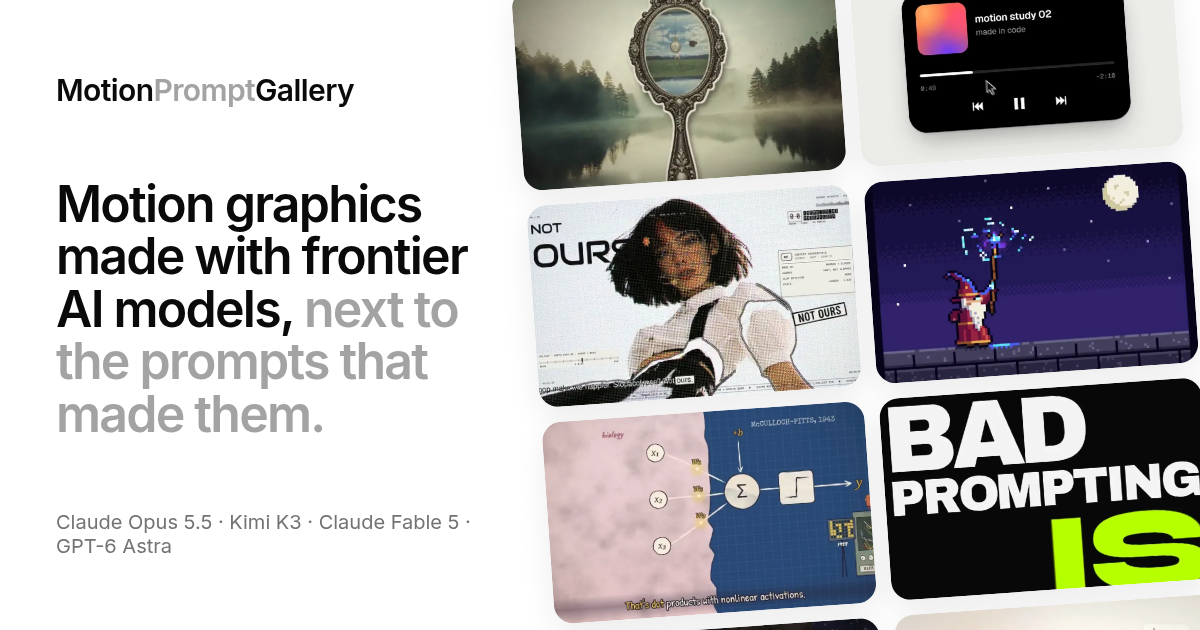
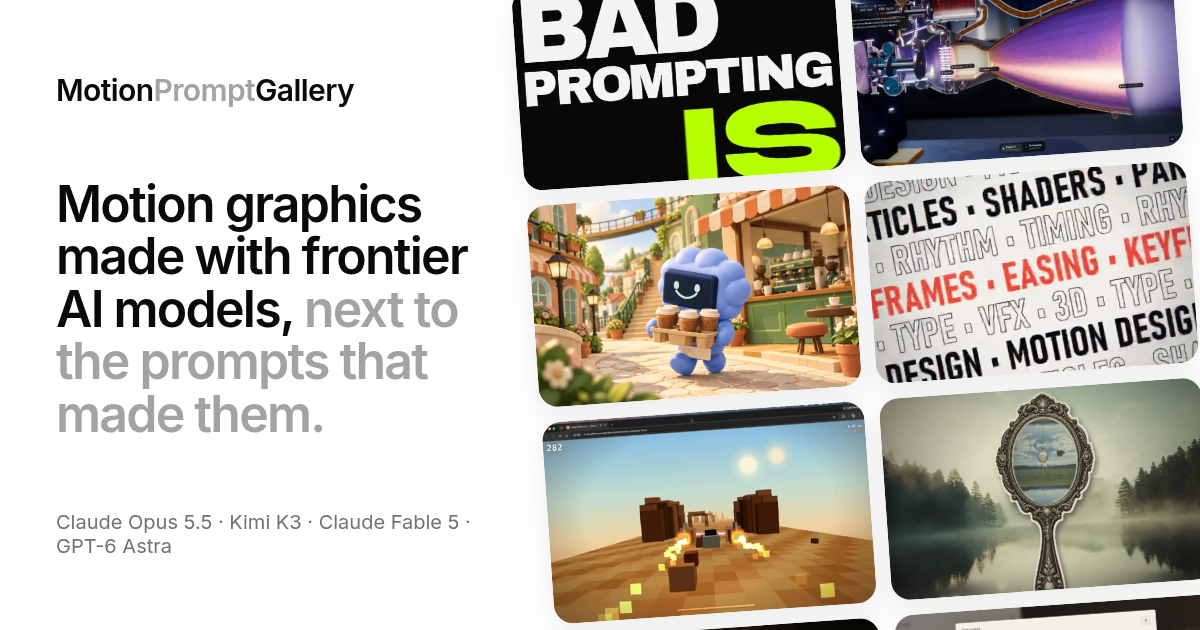
Lead the homepage with featured video pieces
- New default 'Featured' order: featured rank, then pieces with video, then
  stills, newest first within each ('Newest'/'Oldest' still available).
- Row-major masonry after mount so the first row shows the top-ranked cards
  (CSS columns filled top-to-bottom and pushed them below the fold).
- Validator checks featured ranks (positive, unique, video required).
- Regenerate public/og.png (1200x630) from the featured posters.
- README: site URL / NEXT_PUBLIC_SITE_URL launch note, featured field docs.

diff --git a/components/Gallery.tsx b/components/Gallery.tsx
@@ -2,17 +2,22 @@
 import { useCallback, useDeferredValue, useEffect, useMemo, useRef, useState } from 'react';
 import type { LiteItem } from '@/lib/types';
 import { MODELS } from '@/lib/types';
-import { MODEL_STYLE } from '@/lib/format';
+import { hash, MODEL_STYLE } from '@/lib/format';
 import { SITE } from '@/lib/site';
 import Card from './Card';
 import Modal, { type Full } from './Modal';
 import Toast from './Toast';
 
 type TypeFilter = 'all' | 'prompt' | 'skill';
-type Sort = 'newest' | 'oldest';
+type Sort = 'featured' | 'newest' | 'oldest';
 
 const norm = (s: string) => s.toLowerCase().normalize('NFKD').replace(/[\u0300-\u036f]/g, '');
 const time = (d: string | null) => (d ? Date.parse(d) : 0);
+const ratioOf = (it: LiteItem) => {
+  const r = it.aspectRatio || ['4/5', '1/1', '4/3', '3/4'][hash(it.slug) % 4]; // same fallback as Card
+  const [w, h] = r.split('/').map(Number);
+  return w && h ? w / h : 1;
+};
 const slugFromPath = (p: string) => p.match(/^\/p\/([^/]+)\/?$/)?.[1] ?? null;
 
 interface Props {
@@ -25,7 +30,8 @@ export default function Gallery({ items, initialSlug, initialFull }: Props) {
   const [query, setQuery] = useState('');
   const [model, setModel] = useState<string>('all');
   const [type, setType] = useState<TypeFilter>('all');
-  const [sort, setSort] = useState<Sort>('newest');
+  const [sort, setSort] = useState<Sort>('featured');
+  const [cols, setCols] = useState<number | null>(null); // null until mounted: CSS columns for SSR / no-JS
   const [paused, setPaused] = useState(false);
   const [reduceMotion, setReduceMotion] = useState(false);
   const [openSlug, setOpenSlug] = useState<string | null>(initialSlug ?? null);
@@ -50,6 +56,16 @@ export default function Gallery({ items, initialSlug, initialFull }: Props) {
     upd();
     mq.addEventListener('change', upd);
     return () => mq.removeEventListener('change', upd);
+  }, []);
+
+  // Row-major masonry: CSS columns fill top-to-bottom, which would push featured cards below the fold,
+  // so once mounted we distribute cards into flex columns in reading order (shortest column first).
+  useEffect(() => {
+    const qs = ['(min-width: 640px)', '(min-width: 1024px)', '(min-width: 1536px)'].map((q) => window.matchMedia(q));
+    const upd = () => setCols(1 + qs.filter((q) => q.matches).length);
+    upd();
+    qs.forEach((q) => q.addEventListener('change', upd));
+    return () => qs.forEach((q) => q.removeEventListener('change', upd));
   }, []);
 
   const togglePaused = () => {
@@ -102,7 +118,9 @@ export default function Gallery({ items, initialSlug, initialFull }: Props) {
   }, [items, model, matchesQuery]);
   const visible = useMemo(() => {
     const v = base.filter((it) => model === 'all' || it.model === model);
-    return sort === 'newest' ? v : [...v].sort((a, b) => time(a.postedAt) - time(b.postedAt) || a.title.localeCompare(b.title));
+    if (sort === 'featured') return v; // items arrive pre-sorted (featured, then video, then newest)
+    const dir = sort === 'newest' ? -1 : 1;
+    return [...v].sort((a, b) => dir * (time(a.postedAt) - time(b.postedAt)) || a.title.localeCompare(b.title));
   }, [base, model, sort]);
 
   // progressive rendering: render a page of cards, add more as the user nears the end
@@ -182,6 +200,17 @@ export default function Gallery({ items, initialSlug, initialFull }: Props) {
 
   const Heading = initialSlug ? 'h2' : 'h1';
   const shown = visible.slice(0, limit);
+  const columns = useMemo(() => {
+    if (!cols || cols < 2) return null;
+    const out: { it: LiteItem; i: number }[][] = Array.from({ length: cols }, () => []);
+    const h = new Array(cols).fill(0);
+    shown.forEach((it, i) => {
+      const c = h.indexOf(Math.min(...h));
+      out[c].push({ it, i });
+      h[c] += 1 / ratioOf(it) + 0.2; // media height + caption, in column widths
+    });
+    return out;
+  }, [shown, cols]);
   const canPlay = !paused && !reduceMotion && !openSlug;
   const reset = () => {
     setQuery('');
@@ -247,6 +276,7 @@ export default function Gallery({ items, initialSlug, initialFull }: Props) {
                   onChange={(e) => setSort(e.target.value as Sort)}
                   className="h-9 appearance-none rounded-full border border-neutral-200 bg-white pl-3.5 pr-8 text-[13px] font-medium text-neutral-700 outline-none hover:border-neutral-300 dark:border-neutral-800 dark:bg-neutral-950 dark:text-neutral-300"
                 >
+                  <option value="featured">Featured</option>
                   <option value="newest">Newest</option>
                   <option value="oldest">Oldest</option>
                 </select>
@@ -305,11 +335,23 @@ export default function Gallery({ items, initialSlug, initialFull }: Props) {
           {reduceMotion && ' · previews paused (reduced motion)'}
         </p>
         {visible.length ? (
-          <div className="columns-1 gap-5 sm:columns-2 sm:gap-6 lg:columns-3 2xl:columns-4">
-            {shown.map((it, i) => (
-              <Card key={it.slug} item={it} index={i % PAGE} canPlay={canPlay} onOpen={open} />
-            ))}
-          </div>
+          columns ? (
+            <div className="flex items-start gap-5 sm:gap-6">
+              {columns.map((col, c) => (
+                <div key={c} className="min-w-0 flex-1">
+                  {col.map(({ it, i }) => (
+                    <Card key={it.slug} item={it} index={i % PAGE} canPlay={canPlay} onOpen={open} />
+                  ))}
+                </div>
+              ))}
+            </div>
+          ) : (
+            <div className="columns-1 gap-5 sm:columns-2 sm:gap-6 lg:columns-3 2xl:columns-4">
+              {shown.map((it, i) => (
+                <Card key={it.slug} item={it} index={i % PAGE} canPlay={canPlay} onOpen={open} />
+              ))}
+            </div>
+          )
         ) : (
           <div className="flex flex-col items-center justify-center rounded-3xl border border-dashed border-neutral-200 py-24 text-center dark:border-neutral-800">
             <p className="text-sm font-medium">Nothing matches that yet.</p>

diff --git a/lib/items.ts b/lib/items.ts
@@ -7,7 +7,7 @@ let cache: Item[] | null = null;
 export function getItems(): Item[] {
   if (!cache) {
     const raw = fs.readFileSync(path.join(process.cwd(), 'data', 'items.json'), 'utf8');
-    cache = (JSON.parse(raw) as Item[]).sort(byNewest);
+    cache = (JSON.parse(raw) as Item[]).sort(byFeatured);
   }
   return cache;
 }
@@ -16,6 +16,18 @@ export function byNewest(a: { postedAt: string | null; title: string }, b: { pos
   const da = a.postedAt ? Date.parse(a.postedAt) : 0;
   const db = b.postedAt ? Date.parse(b.postedAt) : 0;
   return db - da || a.title.localeCompare(b.title);
+}
+
+type Sortable = { postedAt: string | null; title: string; featured?: number | null; video?: string | null; poster?: string | null };
+
+const mediaRank = (i: Sortable) => (i.video ? 0 : i.poster ? 1 : 2);
+
+/** Default homepage order: featured pieces by rank, then pieces with video, then stills, then no media; newest first within each. */
+export function byFeatured(a: Sortable, b: Sortable) {
+  const fa = a.featured ?? Infinity;
+  const fb = b.featured ?? Infinity;
+  if (fa !== fb) return fa < fb ? -1 : 1;
+  return mediaRank(a) - mediaRank(b) || byNewest(a, b);
 }
 
 export function norm(s: string) {

diff --git a/lib/types.ts b/lib/types.ts
@@ -18,6 +18,8 @@ export interface Item {
   poster: string | null;
   aspectRatio: string | null;
   sourceNote?: string;
+  /** Homepage rank (1 = first card). Featured pieces lead the default order; leave unset for everything else. */
+  featured?: number | null;
 }
 
 /** Light version shipped with every page; prompt/code are loaded on demand. */

diff --git a/README.md b/README.md
@@ -19,7 +19,9 @@ npm run screenshots  # headless Chromium screenshots of out/ into screenshots/
 
 ## Content
 
-- `data/items.json`: every entry. Fields: id, title, slug, model, type (`prompt` | `skill`), creatorName, handle, postUrl, postedAt, stack, prompt, code, tags, video, poster, aspectRatio, sourceNote.
+- `data/items.json`: every entry. Fields: id, title, slug, model, type (`prompt` | `skill`), creatorName, handle, postUrl, postedAt, stack, prompt, code, tags, video, poster, aspectRatio, sourceNote, and optional `featured`.
+- `featured`: a rank (1 = first card) for pieces that lead the homepage. The default "Featured" order is featured pieces by rank, then pieces with video, then stills, newest first within each. Featured pieces must have a video.
+- `data/removed-duplicates.json`: entries taken out before launch (repeated prompts and non-motion comparison posts), kept verbatim with the reason so they can be restored.
 - `public/videos/*.mp4` and `public/posters/*`: media referenced by `video` and `poster`.
 - `data/leads.md`: pieces we found but couldn't add yet (no verbatim prompt, unreadable source, and so on).
 
@@ -38,7 +40,9 @@ The script normalizes model names, generates slugs and ids, probes aspect ratios
 ## Before launch
 
 - The contact address lives in `lib/site.ts` (`contactEmail`). It's used by the footer's "request removal" and "submit a piece" mailto links.
-- Set `NEXT_PUBLIC_SITE_URL` if you deploy somewhere other than https://motionpromptgallery.com.
+- The public site URL defaults to https://motionpromptgallery.vercel.app (`DEFAULT_SITE_URL` in `lib/site.ts`). It drives `metadataBase`, canonical and `og:url`, the absolute `og:image` / `twitter:image` URLs, `sitemap.xml` and `robots.txt`.
+- To move to a custom domain (for example https://motionpromptgallery.com once it's registered), set `NEXT_PUBLIC_SITE_URL=https://motionpromptgallery.com` in the Vercel project's environment variables and redeploy. That's the only change needed.
+- The default share card is `public/og.png` (1200x630, regenerate with `node scripts/make-og.mjs`). Entry pages use their own poster, falling back to `og.png`.
 
 ## License
 
